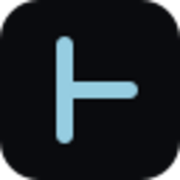
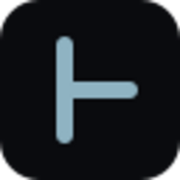
done

Changed region(s): [[0.3056, 0.1944, 0.7778, 0.8056]]

diff --git a/src/content/timeline.js b/src/content/timeline.js
@@ -1,42 +1,54 @@
 // Timeline — the whole story, grouped by year. Each year has one or more entries.
 // Entries within a year are listed in chronological order (top → bottom).
 //
-// thread: "music" | "research" | "life"   (drives the colored strand/dot)
+// thread: "other" | "research" | "life"   (drives the colored strand/dot)
 // when:   optional season/among-year hint ("summer", "fall", "2019–2023", …)
 //
 // Add/reorder freely — the spine, year nodes, branch wires and reveal all adapt.
 
+// Two categories only. Research is the accent; everything else is neutral.
+// Colours are HEX — VS Code shows a colour swatch you can click to edit.
 export const threads = {
-  hobbies:  { label: "Hobbies",  color: "150, 205, 225" },  // accent blue
-  research: { label: "Research", color: "160, 210, 170" },  // green
-  life:     { label: "Life",     color: "210, 180, 140" },  // warm sand
+  research: { label: "Research", color: "#a7858d" },  // muted slate
+  other:    { label: "Other",    color: "#96a0a8" },  // neutral grey
 };
+
+// progress-bar colour before it reaches the first edge
+export const barStart = "#8fa6b3";
+
+// hex "#rrggbb" -> "r, g, b" (used internally for rgba glows/gradients)
+export function rgbParts(hex) {
+  const h = (hex || "#000").replace("#", "");
+  const s = h.length === 3 ? h.split("").map((c) => c + c).join("") : h;
+  const n = parseInt(s, 16);
+  return `${(n >> 16) & 255}, ${(n >> 8) & 255}, ${n & 255}`;
+}
 
 export const timeline = [
   {
     year: "2005",
     entries: [
-      { thread: "life", text: "Born in Prince George, BC." },
+      { thread: "other", text: "Born in Prince George, BC." },
     ],
   },
   {
     year: "2010",
     entries: [
-      { thread: "hobbies", text: "Started playing piano." },
+      { thread: "other", text: "Started playing piano." },
     ],
   },
   {
     year: "2015",
     entries: [
-      { thread: "hobbies", text: "Started playing violin." },
+      { thread: "other", text: "Started playing violin." },
     ],
   },
   {
     year: "2019–2023",
     entries: [
-      { thread: "hobbies", text: "BC piano & violin provincials — runner-up ×4, honorable mention ×4." },
+      { thread: "other", text: "BC piano & violin provincials — runner-up ×4, honorable mention ×4." },
       {
-        thread: "hobbies",
+        thread: "other",
         text: "Fell into 3D art — self-taught in Blender, modelling and texturing from scratch.",
         gallery: [
           { type: "model", model: "frigate", caption: "Halo frigate" },
@@ -55,8 +67,8 @@ export const timeline = [
   {
     year: "2023",
     entries: [
-      { thread: "music", text: "ARCT in Piano (RCM); Violin Level 10; Speech Arts Level 9." },
-      { thread: "music", text: "Smithers tour with Orchestra North (violin) — with Roxi Dykstra, Simon Macdonald, Yu Yu Liu." },
+      { thread: "other", text: "ARCT in Piano (RCM); Violin Level 10; Speech Arts Level 9." },
+      { thread: "other", text: "Smithers tour with Orchestra North (violin) — with Roxi Dykstra, Simon Macdonald, Yu Yu Liu." },
       { thread: "research", when: "fall", text: "Started my degree at the University of Toronto (Mathematics)." },
     ],
   },
@@ -64,9 +76,9 @@ export const timeline = [
     year: "2024",
     entries: [
       { thread: "research", text: "Transferred into the Computer Science major stream (Focus in AI)." },
-      { thread: "hobbies", when: "summer", text: "Piano soloist — Rachmaninoff Concerto No. 2 with the Prince George Symphony Orchestra." },
+      { thread: "other", when: "summer", text: "Piano soloist — Rachmaninoff Concerto No. 2 with the Prince George Symphony Orchestra." },
       {
-        thread: "hobbies",
+        thread: "other",
         when: "summer",
         text: "Intensive traditional-art bootcamp in China — weeks of graphite and charcoal from life.",
         gallery: [
@@ -75,13 +87,13 @@ export const timeline = [
           { type: "image", src: "/fabric.jpg", caption: "Fabric" },
         ],
       },
-      { thread: "hobbies", text: "Ontario Music Festivals finalist; North York “Best Diploma Pianist.”" },
+      { thread: "other", text: "Ontario Music Festivals finalist; North York “Best Diploma Pianist.”" },
     ],
   },
   {
     year: "2025",
     entries: [
-      { thread: "life", when: "summer", text: "Worked as a server at King's Cafe in Toronto." },
+      { thread: "other", when: "summer", text: "Worked as a server at King's Cafe in Toronto." },
       { thread: "research", when: "fall", text: "First research course at UofT — multi-agent RL, under Prof. Peter Marbach." },
     ],
   },

diff --git a/src/components/Timeline.jsx b/src/components/Timeline.jsx
@@ -1,5 +1,5 @@
 import { lazy, Suspense, useEffect, useLayoutEffect, useRef, useState } from "react";
-import { timeline, threads } from "../content/timeline.js";
+import { timeline, threads, barStart, rgbParts } from "../content/timeline.js";
 import "./Timeline.css";
 
 const Model3D = lazy(() => import("./Model3D.jsx"));
@@ -91,7 +91,7 @@ function Year({ year, entries, side, index, headYRef, registry, myId }) {
         list.push({
           rowEl: row,               // absolute Y is computed live each frame
           localY: contactY ?? 0,    // contact Y within the row
-          color: threads[entries[i]?.thread]?.color || "150,205,225",
+          color: rgbParts(threads[entries[i]?.thread]?.color || "#8fa6b3"),
           flash,
         });
       });
@@ -151,13 +151,13 @@ function Year({ year, entries, side, index, headYRef, registry, myId }) {
   const entriesEl = (
     <div className="tl-entries">
       {entries.map((e, i) => {
-        const c = threads[e.thread]?.color || "150,205,225";
+        const c = threads[e.thread]?.color || "#8fa6b3";
         return (
           <div
             className="tl-entry"
             key={i}
             ref={entryRefs.current[i]}
-            style={{ transitionDelay: `${i * 90}ms`, "--tc": c }}
+            style={{ transitionDelay: `${i * 90}ms`, "--tc": rgbParts(c) }}
           >
             {e.when && <span className="tl-when mono">{e.when}</span>}
             <span className="tl-text">{e.text}</span>
@@ -173,16 +173,17 @@ function Year({ year, entries, side, index, headYRef, registry, myId }) {
       <svg className="tl-wires" ref={svgRef} width={dims.w} height={dims.h} aria-hidden="true">
         {segs.map((s, i) => {
           const midX = (s.x1 + s.x2) / 2;
-          const c = threads[entries[i]?.thread]?.color || "150,205,225";
+          const c = threads[entries[i]?.thread]?.color || "#8fa6b3";
+          const parts = rgbParts(c);
           const d = `M ${s.x1} ${s.y1} C ${midX} ${s.y1}, ${midX} ${s.y2}, ${s.x2} ${s.y2}`;
           return (
             <g key={i}>
-              <path className="tl-edge" d={d} fill="none" stroke={`rgba(${c},0.45)`} strokeWidth="1.2" />
+              <path className="tl-edge" d={d} fill="none" stroke={`rgba(${parts},0.45)`} strokeWidth="1.2" />
               {/* flash overlay — pulses along the edge on contact (CSS, scroll-independent) */}
-              <path className="tl-flash" d={d} fill="none" stroke={`rgb(${c})`} strokeWidth="1.8"
+              <path className="tl-flash" d={d} fill="none" stroke={c} strokeWidth="1.8"
                     pathLength="1" strokeDasharray="0.3 1" strokeDashoffset="1"
-                    style={{ color: `rgb(${c})`, "--flash-rgb": c }} />
-              <circle cx={s.x2} cy={s.y2} r="4" fill={`rgb(${c})`} />
+                    style={{ color: c, "--flash-rgb": parts }} />
+              <circle cx={s.x2} cy={s.y2} r="4" fill={c} />
             </g>
           );
         })}
@@ -217,7 +218,7 @@ export default function Timeline() {
   useEffect(() => {
     const wrap = wrapRef.current, fill = fillRef.current;
     if (!wrap || !fill) return;
-    const START = [150, 205, 225]; // bar colour before the first contact
+    const START = rgbParts(barStart).split(",").map((n) => parseFloat(n)); // bar colour before first contact
 
     function allContacts(wrapTop) {
       const out = [];
@@ -306,7 +307,7 @@ export default function Timeline() {
         <h2>The whole story.</h2>
         <div className="tl-legend mono">
           {Object.entries(threads).map(([k, t]) => (
-            <span key={k}><i style={{ background: `rgb(${t.color})` }} />{t.label}</span>
+            <span key={k}><i style={{ background: t.color }} />{t.label}</span>
           ))}
         </div>
       </div>

diff --git a/docs/palettes.html b/docs/palettes.html
@@ -1,0 +1,43 @@
+<!DOCTYPE html><html><head><meta charset=UTF-8><title>palettes</title>
+<style>
+body{background:#0c0d10;color:#dfe4ea;font-family:system-ui,sans-serif;padding:36px}
+h2{font-weight:500;font-size:15px;color:#9aa5ad;margin:28px 0 10px;letter-spacing:.04em}
+.scheme{border:1px solid #262d34;border-radius:12px;padding:20px;margin-bottom:8px;background:#121519}
+.name{font-family:monospace;font-size:12px;color:#8fb3c2;margin-bottom:14px}
+.swatches{display:flex;gap:10px;flex-wrap:wrap;align-items:center}
+.sw{display:flex;flex-direction:column;align-items:center;gap:6px;font-family:monospace;font-size:10px;color:#64717a}
+.dot{width:44px;height:44px;border-radius:10px}
+.bar{height:10px;width:220px;border-radius:6px;margin-top:14px}
+.mini{margin-top:16px;font-size:13px}
+.mini b{font-weight:600}
+.tag{display:inline-block;font-family:monospace;font-size:10px;padding:2px 8px;border-radius:99px;margin-right:6px}
+</style></head><body>
+<h1 style="font-weight:600">Timeline palette options</h1>
+<p style="color:#9aa5ad;font-size:13px">Each shows: accent · 3 thread colours (hobbies/research/life) · a sample tag + bar.</p>
+<div id=out></div>
+<script>
+const schemes=[
+ {name:"A · muted slate (near-neutral, very calm)", accent:"#93a7b0", threads:{hobbies:"#8ea6b2",research:"#93ad9c",life:"#c3ad93"}, bar:"#b9c2c8"},
+ {name:"B · warm earth (sand/clay/sage, editorial)", accent:"#c2a888", threads:{hobbies:"#b7a184",research:"#93a58c",life:"#b98d76"}, bar:"#cbb79b"},
+ {name:"C · dusty ink (desaturated blue-grey family)", accent:"#8c9db0", threads:{hobbies:"#8fa0b3",research:"#9bafa6",life:"#b3a394"}, bar:"#9aa7b5"},
+ {name:"D · mono + one accent (grey threads, single warm accent)", accent:"#c4a878", threads:{hobbies:"#9aa5ad",research:"#9aa5ad",life:"#9aa5ad"}, bar:"#c4a878"},
+ {name:"E · deep jewel-muted (plum/teal/ochre, richer but low sat)", accent:"#9d8ba0", threads:{hobbies:"#7f93a1",research:"#7d9b8f",life:"#b39a76"}, bar:"#a9a0ad"},
+];
+document.getElementById('out').innerHTML=schemes.map(s=>{
+ const t=s.threads;
+ return `<h2>${s.name}</h2><div class=scheme><div class=name>accent ${s.accent}</div>
+ <div class=swatches>
+  <div class=sw><div class=dot style="background:${s.accent}"></div>accent</div>
+  <div class=sw><div class=dot style="background:${t.hobbies}"></div>hobbies</div>
+  <div class=sw><div class=dot style="background:${t.research}"></div>research</div>
+  <div class=sw><div class=dot style="background:${t.life}"></div>life</div>
+  <div class=sw><div class=dot style="background:${s.bar}"></div>bar</div>
+ </div>
+ <div class=bar style="background:linear-gradient(90deg,${t.hobbies},${t.research},${t.life})"></div>
+ <div class=mini>
+   <span class=tag style="color:${t.hobbies};border:1px solid ${t.hobbies}">Hobbies</span>
+   <span class=tag style="color:${t.research};border:1px solid ${t.research}">Research</span>
+   <span class=tag style="color:${t.life};border:1px solid ${t.life}">Life</span>
+ </div></div>`;
+}).join('');
+</script></body></html>

diff --git a/src/components/Timeline.css b/src/components/Timeline.css
@@ -43,25 +43,25 @@
 /* progress bar / playhead — a single fixed colour, distinct from the
    thread colours (which stay blue/green/sand on the edges). */
 .tl {
-  --bar: 226, 178, 90;   /* warm amber — the "time" colour */
+  --bar: 143, 166, 179;   /* fallback; live colour set per-frame from JS */
 }
 .tl-fill {
   position: absolute;
   left: 0; top: 0; width: 100%; height: 0;
   background: linear-gradient(rgba(var(--bar), 0.25), rgb(var(--bar)));
-  box-shadow: 0 0 10px rgba(var(--bar), 0.5);
+  box-shadow: 0 0 6px rgba(var(--bar), 0.3);
 }
-/* playhead glow at the leading tip */
+/* playhead glow at the leading tip — softer, subtler */
 .tl-fill::after {
   content: "";
   position: absolute;
-  left: 50%; bottom: -8px;
+  left: 50%; bottom: -6px;
   transform: translateX(-50%);
-  width: 26px; height: 26px;
+  width: 18px; height: 18px;
   border-radius: 50%;
-  background: radial-gradient(circle, rgb(var(--bar)), rgba(var(--bar), 0) 70%);
+  background: radial-gradient(circle, rgba(var(--bar), 0.8), rgba(var(--bar), 0) 70%);
   filter: blur(2px);
-  opacity: 0.95;
+  opacity: 0.7;
 }
 
 /* ---- one year row ---- */
@@ -86,10 +86,10 @@
   font-size: 15px;
   font-weight: 500;
   letter-spacing: 0.08em;
-  color: rgb(var(--bar));
+  color: var(--ink-dim);            /* year is neutral — no special colour */
   background: var(--bg);
   padding: 6px 12px;
-  border: 1px solid rgba(var(--bar), 0.4);
+  border: 1px solid var(--line);
   border-radius: 999px;
   position: relative;
   z-index: 2;
@@ -236,8 +236,8 @@
 .tl-flash {
   opacity: 0;
   filter:
-    drop-shadow(0 0 4px rgb(var(--flash-rgb)))
-    drop-shadow(0 0 9px rgba(var(--flash-rgb), 0.7));
+    drop-shadow(0 0 3px rgba(var(--flash-rgb), 0.85))
+    drop-shadow(0 0 6px rgba(var(--flash-rgb), 0.4));
 }
 .tl-flash.go {
   animation: tl-flash-travel 0.95s ease-out;

diff --git a/src/index.css b/src/index.css
@@ -3,27 +3,28 @@
    Palette/type locked from the approved hero (concept 21) + timeline.
    ============================================================ */
 :root {
-  /* surface */
-  --bg: #0a0b0e;
-  --bg-soft: #0e1319;
-  --line: #223039;
-  --line-soft: #1c2530;
+  /* surface — a touch warmer/softer than pure black */
+  --bg: #0c0d10;
+  --bg-soft: #121519;
+  --line: #262d34;
+  --line-soft: #1d2329;
 
   /* ink */
-  --ink: #e8eef4;
-  --ink-bright: #f2f6fb;
-  --ink-dim: #9fb2bd;
-  --ink-faint: #5f7d8a;
+  --ink: #dfe4ea;
+  --ink-bright: #eef1f5;
+  --ink-dim: #9aa5ad;
+  --ink-faint: #64717a;
 
-  /* accent (cool blue-white) */
-  --accent: #96cde1;
-  --accent-deep: #5f9fb5;
-  --accent-line: 150, 205, 225; /* rgb parts for rgba() */
+  /* ★ TRUE GLOBAL ACCENT — one knob. Change --accent (hex), then set
+     --accent-line to the SAME colour as "r, g, b" (used by rgba glows). */
+  --accent: #a7858d;
+  --accent-deep: #7d5f66;
+  --accent-line: 167, 133, 141;
 
-  /* geometry field colors (rgb parts) */
-  --geo-line: 150, 180, 200;
-  --geo-point: 200, 224, 240;
-  --geo-arc: 120, 150, 170;
+  /* geometry hero dots/lines — "r, g, b" (used with rgba) */
+  --geo-line: 130, 150, 165;
+  --geo-point: 175, 195, 208;
+  --geo-arc: 105, 125, 138;
 
   --maxw: 960px;
   --pad-x: 7vw;
@@ -45,8 +46,8 @@ body {
   text-rendering: optimizeLegibility;
 }
 
-a { color: var(--accent); text-decoration: none; }
-a:hover { text-decoration: underline; }
+a { color: var(--ink-dim); text-decoration: none; }
+a:hover { color: var(--ink-bright); text-decoration: underline; }
 
 .mono { font-family: var(--font-mono); }
 

diff --git a/src/components/Overview.css b/src/components/Overview.css
@@ -1,8 +1,11 @@
 .overview {
+  /* ---- OVERVIEW COLOUR KNOBS (all hex; last 2 digits = opacity) ---- */
+  --ov-bg: #131417;      /* panel background (neutral dark) */
+  --ov-glow: #ffffff00;  /* corner wash: set an 8-digit hex like #8fb3c214 for a tint, or keep 00 for none */
   padding: 14vh var(--pad-x);
   background:
-    radial-gradient(120% 60% at 85% 0%, rgba(var(--accent-line), 0.05), transparent 55%),
-    var(--bg-soft);
+    radial-gradient(120% 60% at 85% 0%, var(--ov-glow), transparent 55%),
+    var(--ov-bg);
   border-top: 1px solid var(--line-soft);
   border-bottom: 1px solid var(--line-soft);
 }
@@ -36,7 +39,7 @@
 }
 .ov-node {
   fill: var(--accent);
-  filter: drop-shadow(0 0 4px rgba(var(--accent-line), 0.6));
+  filter: drop-shadow(0 0 2px rgba(var(--accent-line), 0.35));
   animation: ov-pulse 3.2s ease-in-out infinite;
 }
 @keyframes ov-pulse { 0%,100% { opacity: 0.5; } 50% { opacity: 0.95; } }
@@ -66,8 +69,8 @@
   display: inline-block;
   margin-top: 12px;
 }
-.ov-item a { border-bottom: 1px dashed rgba(var(--accent-line), 0.4); }
-.ov-item a:hover { text-decoration: none; border-bottom-style: solid; }
+.ov-item a { color: var(--ink-dim); border-bottom: 1px dashed var(--line); }
+.ov-item a:hover { color: var(--ink-bright); text-decoration: none; border-bottom-color: var(--ink-faint); }
 .ov-soft { color: var(--ink-faint); }
 
 /* media (per item) */
@@ -114,7 +117,7 @@
   font-weight: 500;
   letter-spacing: 0.28em;
   text-transform: uppercase;
-  color: var(--accent);
+  color: var(--ink-dim);
 }
 
 @media (max-width: 860px) {

diff --git a/src/components/Hero.css b/src/components/Hero.css
@@ -29,7 +29,7 @@
   letter-spacing: -0.02em;
   margin-top: 14px;
   color: var(--ink-bright);
-  text-shadow: 0 4px 60px var(--bg);
+  text-shadow: 0 2px 30px var(--bg);
 }
 
 .hero-sub {
